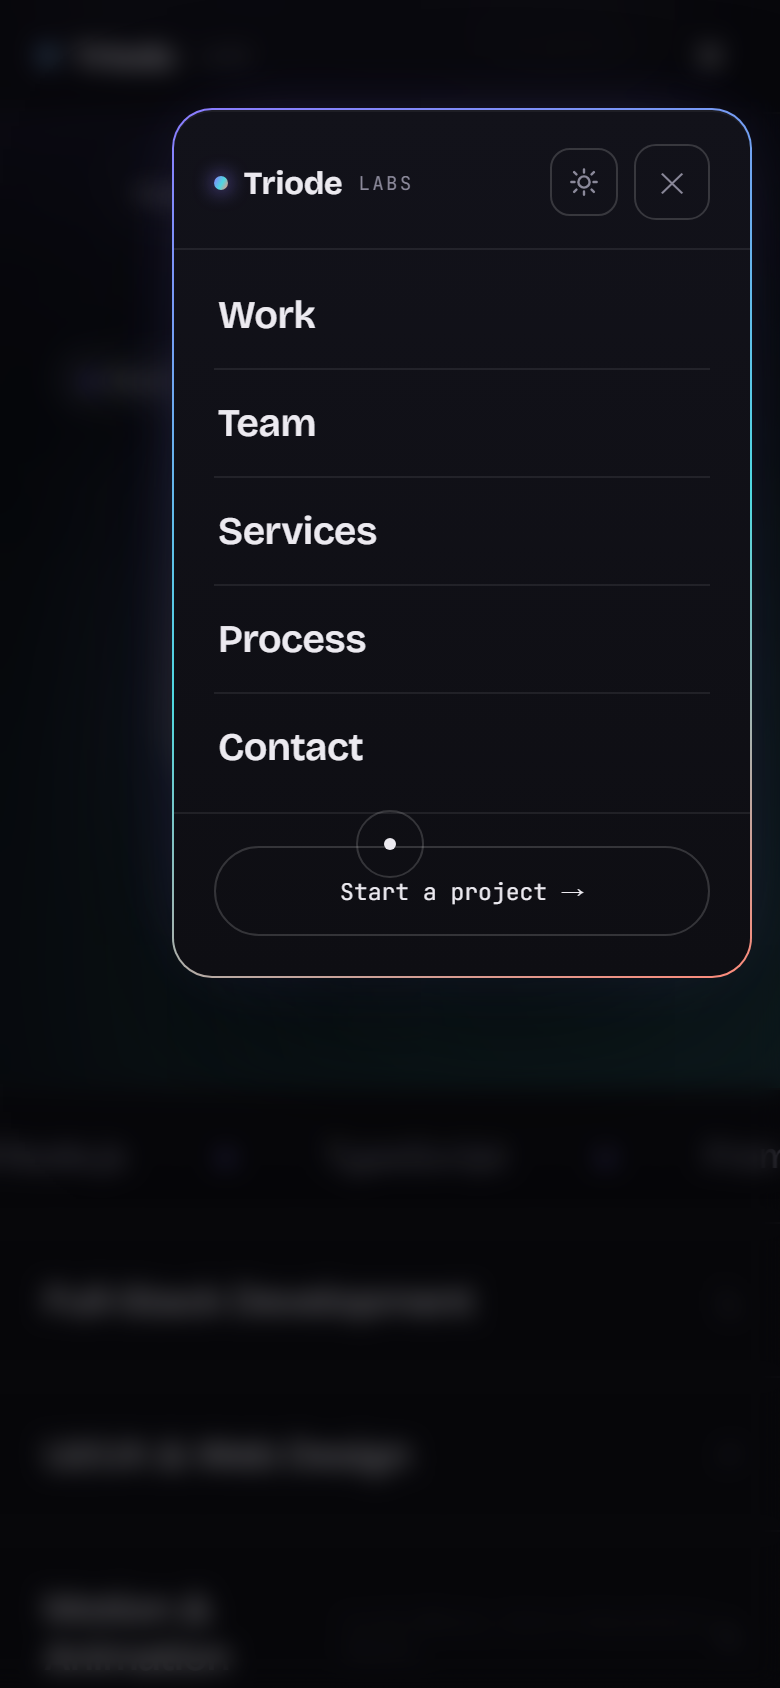
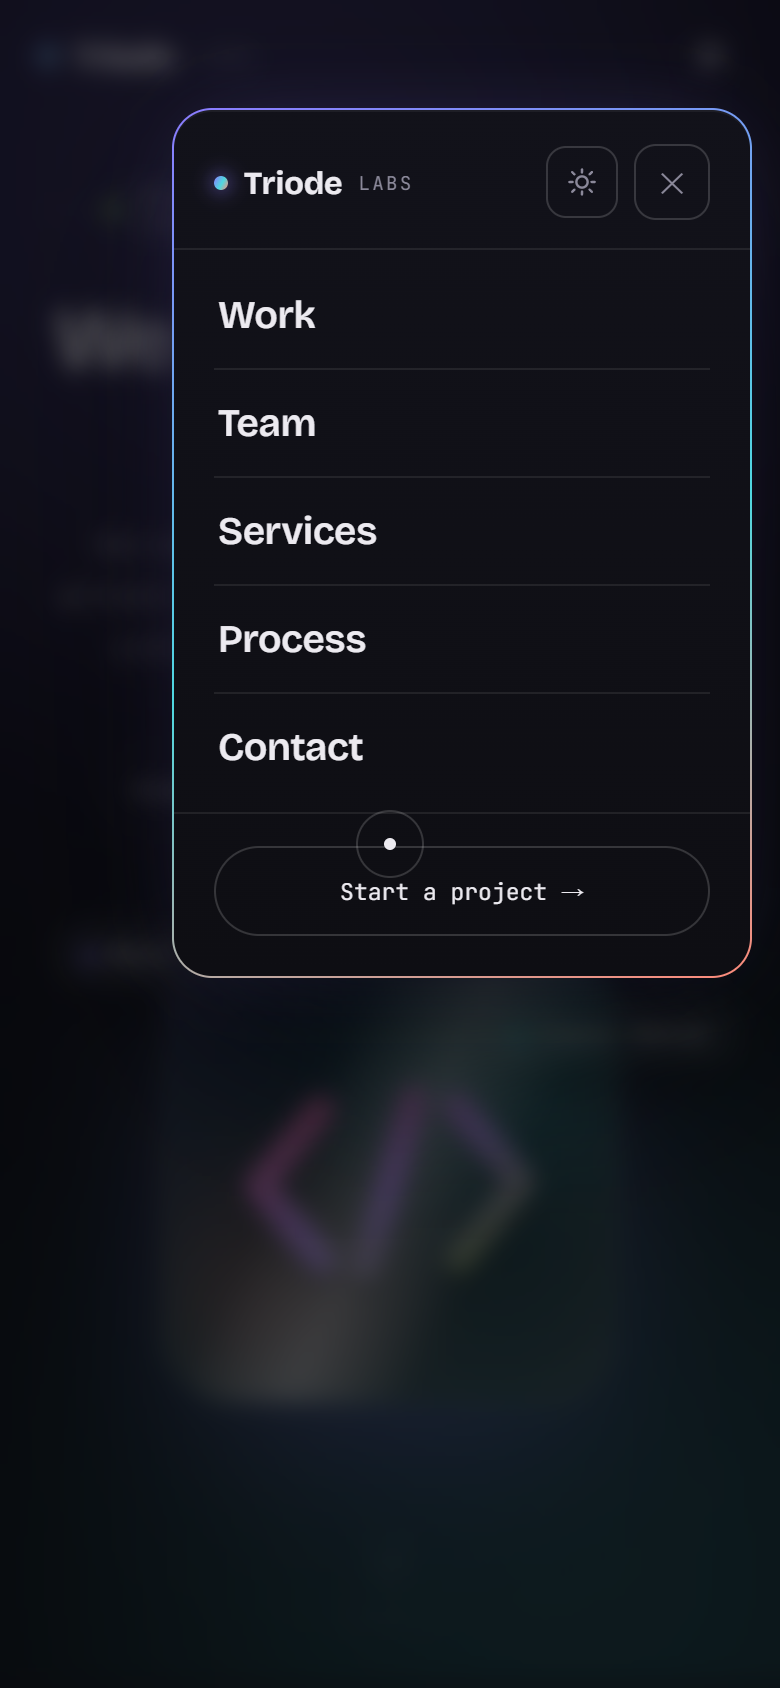
Changing the style and appearence of the nav bar

diff --git a/styles.css b/styles.css
@@ -38,8 +38,15 @@
   --blue: #468ff0;
 }
 
-[data-theme="light"] header.scrolled {
-  background: rgba(250, 250, 253, 0.8);
+[data-theme="light"] header.scrolled .nav {
+  background: rgba(250, 250, 253, 0.85);
+  box-shadow: 0 14px 40px -14px rgba(30, 30, 60, 0.18);
+}
+
+[data-theme="light"] .menu-head,
+[data-theme="light"] .menu-links a,
+[data-theme="light"] .menu-foot {
+  border-color: var(--line-strong);
 }
 
 [data-theme="light"] .btn.ghost {
@@ -62,6 +69,14 @@
 
 [data-theme="light"] .glass-plate {
   border-color: rgba(20, 20, 40, 0.10);
+}
+
+[data-theme="light"] .menu-panel {
+  background:
+    linear-gradient(180deg, var(--bg-raised), var(--bg-panel)) padding-box,
+    linear-gradient(160deg, rgba(119, 103, 242, 0.65), rgba(18, 176, 189, 0.5) 55%, rgba(238, 92, 75, 0.55)) border-box;
+  border: 1px solid transparent;
+  box-shadow: 0 30px 80px -24px rgba(30, 30, 60, 0.3), inset 0 1px 0 rgba(255, 255, 255, 0.7), 0 0 44px -18px rgba(119, 103, 242, 0.45);
 }
 
 * {
@@ -169,31 +184,48 @@ h2 {
   }
 }
 
-/* ---------- NAV ---------- */
+/* ---------- NAV (floating pill on scroll) ---------- */
 header {
   position: fixed;
   top: 0;
   left: 0;
   right: 0;
   z-index: 100;
-  transition: background .35s, border-color .35s, backdrop-filter .35s;
-  border-bottom: 1px solid transparent;
+  padding: 0;
+  pointer-events: none;
+  transition: padding .45s var(--ease);
 }
 
 header.scrolled {
-  background: rgba(8, 8, 11, 0.72);
-  backdrop-filter: blur(16px);
-  -webkit-backdrop-filter: blur(16px);
-  border-bottom: 1px solid var(--line);
+  padding: 14px 24px 0;
 }
 
 .nav {
+  pointer-events: auto;
   display: flex;
   align-items: center;
   justify-content: space-between;
-  padding: 20px 40px;
+  gap: 20px;
   max-width: var(--mw);
   margin: 0 auto;
+  padding: 20px 40px;
+  border-radius: 0;
+  border: 1px solid transparent;
+  background: transparent;
+  backdrop-filter: blur(0px) saturate(1);
+  -webkit-backdrop-filter: blur(0px) saturate(1);
+  box-shadow: none;
+  transition: padding .45s var(--ease), border-radius .45s var(--ease), border-color .45s, background .45s, box-shadow .45s, backdrop-filter .45s;
+}
+
+header.scrolled .nav {
+  padding: 12px 20px;
+  border-radius: 100px;
+  border-color: var(--line-strong);
+  background: rgba(14, 14, 19, 0.85);
+  backdrop-filter: blur(18px) saturate(1.4);
+  -webkit-backdrop-filter: blur(18px) saturate(1.4);
+  box-shadow: 0 14px 40px -14px rgba(0, 0, 0, 0.5);
 }
 
 .nav .mark {
@@ -445,12 +477,12 @@ header.scrolled {
     display: flex;
     flex-direction: column;
     position: fixed;
-    top: 54px;
-    right: 14px;
+    top: 86px;
+    right: 24px;
     z-index: 200;
     width: min(290px, 78vw);
-    max-height: calc(100vh - 108px);
-    max-height: calc(100dvh - 108px);
+    max-height: calc(100vh - 104px);
+    max-height: calc(100dvh - 104px);
     background:
       linear-gradient(180deg, var(--bg-raised), var(--bg-panel)) padding-box,
       linear-gradient(160deg, var(--violet), var(--cyan) 55%, var(--coral)) border-box;

diff --git a/script.js b/script.js
@@ -7,11 +7,11 @@ function tick(){
 tick(); setInterval(tick, 30000);
 
 // ---- theme toggle ----
+// Light is the default; users can opt into dark via the toggle (saved in localStorage).
 const rootEl = document.documentElement;
 const themeToggles = document.querySelectorAll('.theme-toggle');
 const savedTheme = localStorage.getItem('theme');
-const sysDark = window.matchMedia('(prefers-color-scheme: dark)');
-const initialTheme = savedTheme === 'light' || savedTheme === 'dark' ? savedTheme : (sysDark.matches ? 'dark' : 'light');
+const initialTheme = savedTheme === 'dark' ? 'dark' : 'light';
 rootEl.dataset.theme = initialTheme;
 const setToggleAria = () => themeToggles.forEach(b =>
   b.setAttribute('aria-label', rootEl.dataset.theme === 'light' ? 'Switch to dark theme' : 'Switch to light theme'));
@@ -22,13 +22,6 @@ themeToggles.forEach(toggle => toggle.addEventListener('click', () => {
   localStorage.setItem('theme', next);
   setToggleAria();
 }));
-// follow the system scheme until the user picks a theme
-sysDark.addEventListener('change', e => {
-  if (!localStorage.getItem('theme')) {
-    rootEl.dataset.theme = e.matches ? 'dark' : 'light';
-    setToggleAria();
-  }
-});
 
 // ---- header on scroll ----
 const header = document.getElementById('header');

diff --git a/index.html b/index.html
@@ -1,9 +1,17 @@
 <!DOCTYPE html>
-<html lang="en">
+<html lang="en" data-theme="light">
 <head>
 <meta charset="UTF-8">
 <meta name="viewport" content="width=device-width, initial-scale=1.0, viewport-fit=cover">
 <title>Triode Labs — Web Development & Animation</title>
+<script>
+  // Light is the default; apply a saved preference before first paint to avoid a flash.
+  try {
+    document.documentElement.dataset.theme = localStorage.getItem('theme') === 'dark' ? 'dark' : 'light';
+  } catch (e) {
+    document.documentElement.dataset.theme = 'light';
+  }
+</script>
 <link rel="preconnect" href="https://fonts.googleapis.com">
 <link rel="preconnect" href="https://fonts.gstatic.com" crossorigin>
 <link href="https://fonts.googleapis.com/css2?family=Bricolage+Grotesque:opsz,wght@12..96,300;12..96,400;12..96,500;12..96,600;12..96,700;12..96,800&family=Inter:wght@300;400;500;600&family=JetBrains+Mono:wght@400;500&display=swap" rel="stylesheet">
